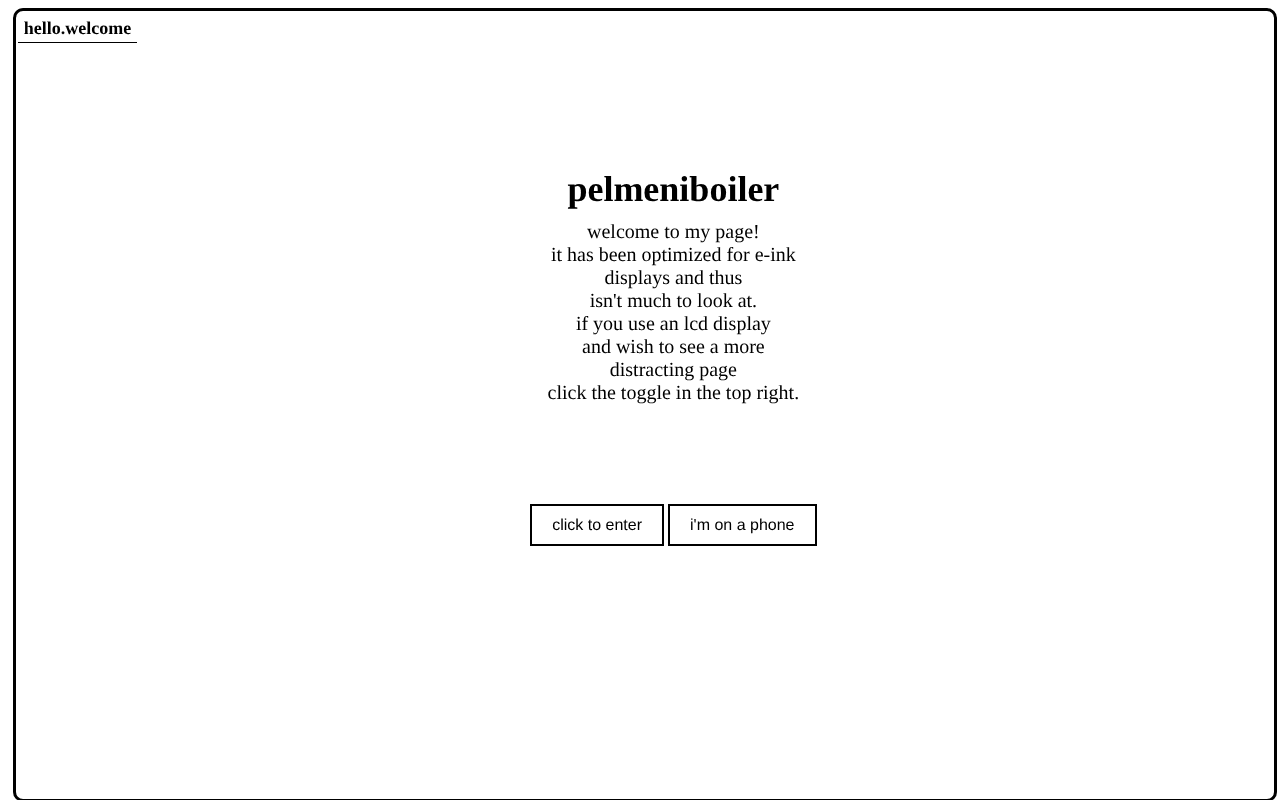
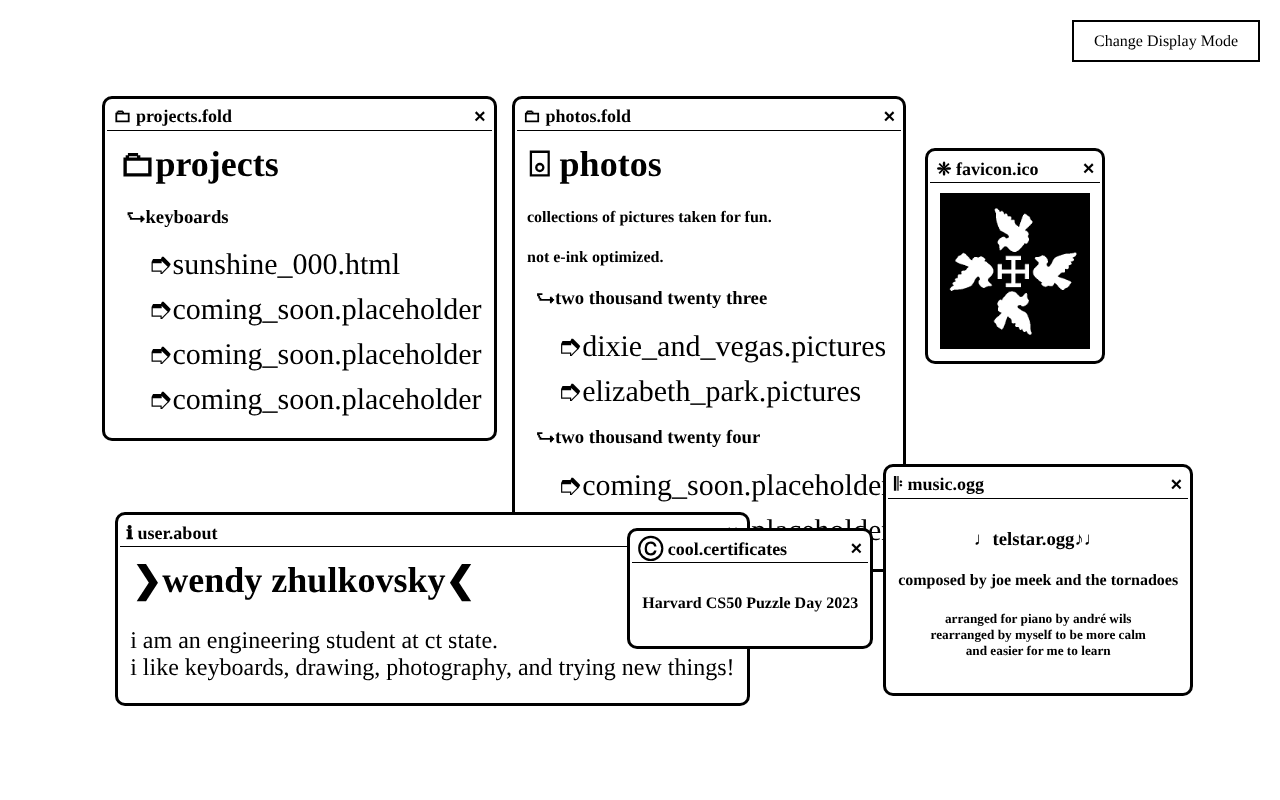
History post: Hebrew dates, units, the 2024 version past its gate; no grey for disabled controls
- History post: dates are Hebrew-calendar; chart figures carry KB; the
  one-line intro is replaced by the date range; the 2024 version is
  shown after 'click to enter', with its windows.
- Disabled controls no longer turn grey or fade: the outline goes dashed
  and the label is struck through (the colour themes in e-ink mode).

Claude-Session: https://claude.ai/code/session_01NDXeeJN8X7cF8LKYzB54qM

diff --git a/blog/this-blog-used-to-look-different.html b/blog/this-blog-used-to-look-different.html
@@ -53,40 +53,40 @@
             <h1 id="title" data-key="history_title"></h1>
             <p data-key="history_p1"></p>
             <figure>
-<svg class="tl-fig" viewBox="0 0 640 240" role="img" aria-labelledby="tlc-t tlc-d"><title id="tlc-t">First-visit download of each version, in kilobytes, drawn to one scale</title><desc id="tlc-d">Version 1, 2021-12-28: 1951 KB (page 1, images 1949). Version 2, 2024-02-03: 17 KB (page 10, scripts 3, images 4). Version 3, 2025-05-23: 17 KB (page 8, styles 6, scripts 4). Version 4, 2025-07-23: 7572 KB (page 7, styles 21, scripts 54, fonts 7153, images 11, data 326). Version 5, 2025-11-20: 7701 KB (page 7, styles 22, scripts 54, fonts 7153, images 11, data 454). Version 6, 2026-07-11: 7893 KB (page 14, styles 122, scripts 127, fonts 7153, images 13, data 463). Version 7, 2026-11-16: 615 KB (page 63, styles 146, scripts 145, fonts 74, images 182, data 6).</desc><defs>
+<svg class="tl-fig" viewBox="0 0 640 258" role="img" aria-labelledby="tlc-t tlc-d"><title id="tlc-t">First-visit download of each version, in kilobytes, drawn to one scale</title><desc id="tlc-d">Version 1, 24 Tevet 5782: 1951 KB (page 1, images 1949). Version 2, 24 Shevat 5784: 17 KB (page 10, scripts 3, images 4). Version 3, 25 Iyar 5785: 17 KB (page 8, styles 6, scripts 4). Version 4, 27 Tamuz 5785: 7572 KB (page 7, styles 21, scripts 54, fonts 7153, images 11, data 326). Version 5, 29 Heshvan 5786: 7701 KB (page 7, styles 22, scripts 54, fonts 7153, images 11, data 454). Version 6, 26 Tamuz 5786: 7893 KB (page 14, styles 122, scripts 127, fonts 7153, images 13, data 463). Version 7, 6 Kislev 5787: 615 KB (page 63, styles 146, scripts 145, fonts 74, images 182, data 6).</desc><defs>
 <pattern id="tl-dots" width="7" height="7" patternUnits="userSpaceOnUse"><rect class="tl-paper" width="7" height="7"/><circle class="tl-ink" cx="3.5" cy="3.5" r="1.4"/></pattern>
 <pattern id="tl-diag" width="7" height="7" patternUnits="userSpaceOnUse" patternTransform="rotate(45)"><rect class="tl-paper" width="7" height="7"/><rect class="tl-ink" width="2.2" height="7"/></pattern>
 <pattern id="tl-horiz" width="7" height="7" patternUnits="userSpaceOnUse"><rect class="tl-paper" width="7" height="7"/><rect class="tl-ink" width="7" height="2.2"/></pattern>
 <pattern id="tl-cross" width="8" height="8" patternUnits="userSpaceOnUse"><rect class="tl-paper" width="8" height="8"/><rect class="tl-ink" width="8" height="1.6"/><rect class="tl-ink" width="1.6" height="8"/></pattern>
-</defs><path class="tl-paper tl-st" d="M 45.7 84 L 45.7 63.1 A 20.9 20.9 0 0 1 45.8 63.1 Z"/><path class="tl-st" fill="url(#tl-diag)" d="M 45.7 84 L 45.8 63.1 A 20.9 20.9 0 1 1 45.7 63.1 Z"/><circle class="tl-rim" cx="45.7" cy="84" r="20.9"/><text class="tl-t" x="45.7" y="172" text-anchor="middle">2021-12</text><text class="tl-t" x="45.7" y="190" text-anchor="middle">1,951</text><text class="tl-n" x="45.7" y="16" text-anchor="middle">1</text><path class="tl-paper tl-st" d="M 137.1 84 L 137.1 81.5 A 2.5 2.5 0 1 1 135.8 86.1 Z"/><path class="tl-st" fill="url(#tl-horiz)" d="M 137.1 84 L 135.8 86.1 A 2.5 2.5 0 0 1 134.6 83.8 Z"/><path class="tl-st" fill="url(#tl-diag)" d="M 137.1 84 L 134.6 83.8 A 2.5 2.5 0 0 1 137.1 81.5 Z"/><circle class="tl-rim" cx="137.1" cy="84" r="2.5"/><text class="tl-t" x="137.1" y="172" text-anchor="middle">2024-02</text><text class="tl-t" x="137.1" y="190" text-anchor="middle">17</text><text class="tl-n" x="137.1" y="16" text-anchor="middle">2</text><path class="tl-paper tl-st" d="M 228.6 84 L 228.6 81.5 A 2.5 2.5 0 0 1 229.5 86.3 Z"/><path class="tl-st" fill="url(#tl-cross)" d="M 228.6 84 L 229.5 86.3 A 2.5 2.5 0 0 1 226.1 83.6 Z"/><path class="tl-st" fill="url(#tl-horiz)" d="M 228.6 84 L 226.1 83.6 A 2.5 2.5 0 0 1 228.6 81.5 Z"/><circle class="tl-rim" cx="228.6" cy="84" r="2.5"/><text class="tl-t" x="228.6" y="172" text-anchor="middle">2025-05</text><text class="tl-t" x="228.6" y="190" text-anchor="middle">17</text><text class="tl-n" x="228.6" y="16" text-anchor="middle">3</text><path class="tl-paper tl-st" d="M 320 84 L 320 42.9 A 41.1 41.1 0 0 1 320.2 42.9 Z"/><path class="tl-st" fill="url(#tl-cross)" d="M 320 84 L 320.2 42.9 A 41.1 41.1 0 0 1 321 42.9 Z"/><path class="tl-st" fill="url(#tl-horiz)" d="M 320 84 L 321 42.9 A 41.1 41.1 0 0 1 322.8 43 Z"/><path class="tl-ink" d="M 320 84 L 322.8 43 A 41.1 41.1 0 1 1 308.6 44.5 Z"/><path class="tl-st" fill="url(#tl-diag)" d="M 320 84 L 308.6 44.5 A 41.1 41.1 0 0 1 309 44.4 Z"/><path class="tl-st" fill="url(#tl-dots)" d="M 320 84 L 309 44.4 A 41.1 41.1 0 0 1 320 42.9 Z"/><circle class="tl-rim" cx="320" cy="84" r="41.1"/><text class="tl-t" x="320" y="172" text-anchor="middle">2025-07</text><text class="tl-t" x="320" y="190" text-anchor="middle">7,572</text><text class="tl-n" x="320" y="16" text-anchor="middle">4</text><path class="tl-paper tl-st" d="M 411.4 84 L 411.4 42.5 A 41.5 41.5 0 0 1 411.6 42.5 Z"/><path class="tl-st" fill="url(#tl-cross)" d="M 411.4 84 L 411.6 42.5 A 41.5 41.5 0 0 1 412.4 42.5 Z"/><path class="tl-st" fill="url(#tl-horiz)" d="M 411.4 84 L 412.4 42.5 A 41.5 41.5 0 0 1 414.2 42.6 Z"/><path class="tl-ink" d="M 411.4 84 L 414.2 42.6 A 41.5 41.5 0 1 1 396 45.5 Z"/><path class="tl-st" fill="url(#tl-diag)" d="M 411.4 84 L 396 45.5 A 41.5 41.5 0 0 1 396.4 45.3 Z"/><path class="tl-st" fill="url(#tl-dots)" d="M 411.4 84 L 396.4 45.3 A 41.5 41.5 0 0 1 411.4 42.5 Z"/><circle class="tl-rim" cx="411.4" cy="84" r="41.5"/><text class="tl-t" x="411.4" y="172" text-anchor="middle">2025-11</text><text class="tl-t" x="411.4" y="190" text-anchor="middle">7,701</text><text class="tl-n" x="411.4" y="16" text-anchor="middle">5</text><path class="tl-paper tl-st" d="M 502.9 84 L 502.9 42 A 42 42 0 0 1 503.4 42 Z"/><path class="tl-st" fill="url(#tl-cross)" d="M 502.9 84 L 503.4 42 A 42 42 0 0 1 507.4 42.2 Z"/><path class="tl-st" fill="url(#tl-horiz)" d="M 502.9 84 L 507.4 42.2 A 42 42 0 0 1 511.6 42.9 Z"/><path class="tl-ink" d="M 502.9 84 L 511.6 42.9 A 42 42 0 1 1 487.4 45 Z"/><path class="tl-st" fill="url(#tl-diag)" d="M 502.9 84 L 487.4 45 A 42 42 0 0 1 487.8 44.8 Z"/><path class="tl-st" fill="url(#tl-dots)" d="M 502.9 84 L 487.8 44.8 A 42 42 0 0 1 502.9 42 Z"/><circle class="tl-rim" cx="502.9" cy="84" r="42"/><text class="tl-t" x="502.9" y="172" text-anchor="middle">2026-07</text><text class="tl-t" x="502.9" y="190" text-anchor="middle">7,893</text><text class="tl-n" x="502.9" y="16" text-anchor="middle">6</text><path class="tl-paper tl-st" d="M 594.3 84 L 594.3 72.3 A 11.7 11.7 0 0 1 601.3 74.6 Z"/><path class="tl-st" fill="url(#tl-cross)" d="M 594.3 84 L 601.3 74.6 A 11.7 11.7 0 0 1 604.2 90.2 Z"/><path class="tl-st" fill="url(#tl-horiz)" d="M 594.3 84 L 604.2 90.2 A 11.7 11.7 0 0 1 589 94.5 Z"/><path class="tl-ink" d="M 594.3 84 L 589 94.5 A 11.7 11.7 0 0 1 583.3 88 Z"/><path class="tl-st" fill="url(#tl-diag)" d="M 594.3 84 L 583.3 88 A 11.7 11.7 0 0 1 593.6 72.3 Z"/><path class="tl-st" fill="url(#tl-dots)" d="M 594.3 84 L 593.6 72.3 A 11.7 11.7 0 0 1 594.3 72.3 Z"/><circle class="tl-rim" cx="594.3" cy="84" r="11.7"/><text class="tl-t" x="594.3" y="172" text-anchor="middle">2026-11</text><text class="tl-t" x="594.3" y="190" text-anchor="middle">615</text><text class="tl-n" x="594.3" y="16" text-anchor="middle">7</text><rect class="tl-paper tl-st" x="40" y="212" width="16" height="16"/><rect class="tl-rim" x="40" y="212" width="16" height="16"/><text class="tl-t" x="62" y="225">page</text><rect class="tl-st" fill="url(#tl-cross)" x="140" y="212" width="16" height="16"/><rect class="tl-rim" x="140" y="212" width="16" height="16"/><text class="tl-t" x="162" y="225">styles</text><rect class="tl-st" fill="url(#tl-horiz)" x="240" y="212" width="16" height="16"/><rect class="tl-rim" x="240" y="212" width="16" height="16"/><text class="tl-t" x="262" y="225">scripts</text><rect class="tl-ink" x="340" y="212" width="16" height="16"/><rect class="tl-rim" x="340" y="212" width="16" height="16"/><text class="tl-t" x="362" y="225">fonts</text><rect class="tl-st" fill="url(#tl-diag)" x="440" y="212" width="16" height="16"/><rect class="tl-rim" x="440" y="212" width="16" height="16"/><text class="tl-t" x="462" y="225">images</text><rect class="tl-st" fill="url(#tl-dots)" x="540" y="212" width="16" height="16"/><rect class="tl-rim" x="540" y="212" width="16" height="16"/><text class="tl-t" x="562" y="225">data</text></svg>
+</defs><path class="tl-paper tl-st" d="M 45.7 84 L 45.7 63.1 A 20.9 20.9 0 0 1 45.8 63.1 Z"/><path class="tl-st" fill="url(#tl-diag)" d="M 45.7 84 L 45.8 63.1 A 20.9 20.9 0 1 1 45.7 63.1 Z"/><circle class="tl-rim" cx="45.7" cy="84" r="20.9"/><text class="tl-t" x="45.7" y="172" text-anchor="middle">Tevet</text><text class="tl-t" x="45.7" y="188" text-anchor="middle">5782</text><text class="tl-t" x="45.7" y="208" text-anchor="middle">1,951 KB</text><text class="tl-n" x="45.7" y="16" text-anchor="middle">1</text><path class="tl-paper tl-st" d="M 137.1 84 L 137.1 81.5 A 2.5 2.5 0 1 1 135.8 86.1 Z"/><path class="tl-st" fill="url(#tl-horiz)" d="M 137.1 84 L 135.8 86.1 A 2.5 2.5 0 0 1 134.6 83.8 Z"/><path class="tl-st" fill="url(#tl-diag)" d="M 137.1 84 L 134.6 83.8 A 2.5 2.5 0 0 1 137.1 81.5 Z"/><circle class="tl-rim" cx="137.1" cy="84" r="2.5"/><text class="tl-t" x="137.1" y="172" text-anchor="middle">Shevat</text><text class="tl-t" x="137.1" y="188" text-anchor="middle">5784</text><text class="tl-t" x="137.1" y="208" text-anchor="middle">17 KB</text><text class="tl-n" x="137.1" y="16" text-anchor="middle">2</text><path class="tl-paper tl-st" d="M 228.6 84 L 228.6 81.5 A 2.5 2.5 0 0 1 229.5 86.3 Z"/><path class="tl-st" fill="url(#tl-cross)" d="M 228.6 84 L 229.5 86.3 A 2.5 2.5 0 0 1 226.1 83.6 Z"/><path class="tl-st" fill="url(#tl-horiz)" d="M 228.6 84 L 226.1 83.6 A 2.5 2.5 0 0 1 228.6 81.5 Z"/><circle class="tl-rim" cx="228.6" cy="84" r="2.5"/><text class="tl-t" x="228.6" y="172" text-anchor="middle">Iyar</text><text class="tl-t" x="228.6" y="188" text-anchor="middle">5785</text><text class="tl-t" x="228.6" y="208" text-anchor="middle">17 KB</text><text class="tl-n" x="228.6" y="16" text-anchor="middle">3</text><path class="tl-paper tl-st" d="M 320 84 L 320 42.9 A 41.1 41.1 0 0 1 320.2 42.9 Z"/><path class="tl-st" fill="url(#tl-cross)" d="M 320 84 L 320.2 42.9 A 41.1 41.1 0 0 1 321 42.9 Z"/><path class="tl-st" fill="url(#tl-horiz)" d="M 320 84 L 321 42.9 A 41.1 41.1 0 0 1 322.8 43 Z"/><path class="tl-ink" d="M 320 84 L 322.8 43 A 41.1 41.1 0 1 1 308.6 44.5 Z"/><path class="tl-st" fill="url(#tl-diag)" d="M 320 84 L 308.6 44.5 A 41.1 41.1 0 0 1 309 44.4 Z"/><path class="tl-st" fill="url(#tl-dots)" d="M 320 84 L 309 44.4 A 41.1 41.1 0 0 1 320 42.9 Z"/><circle class="tl-rim" cx="320" cy="84" r="41.1"/><text class="tl-t" x="320" y="172" text-anchor="middle">Tamuz</text><text class="tl-t" x="320" y="188" text-anchor="middle">5785</text><text class="tl-t" x="320" y="208" text-anchor="middle">7,572 KB</text><text class="tl-n" x="320" y="16" text-anchor="middle">4</text><path class="tl-paper tl-st" d="M 411.4 84 L 411.4 42.5 A 41.5 41.5 0 0 1 411.6 42.5 Z"/><path class="tl-st" fill="url(#tl-cross)" d="M 411.4 84 L 411.6 42.5 A 41.5 41.5 0 0 1 412.4 42.5 Z"/><path class="tl-st" fill="url(#tl-horiz)" d="M 411.4 84 L 412.4 42.5 A 41.5 41.5 0 0 1 414.2 42.6 Z"/><path class="tl-ink" d="M 411.4 84 L 414.2 42.6 A 41.5 41.5 0 1 1 396 45.5 Z"/><path class="tl-st" fill="url(#tl-diag)" d="M 411.4 84 L 396 45.5 A 41.5 41.5 0 0 1 396.4 45.3 Z"/><path class="tl-st" fill="url(#tl-dots)" d="M 411.4 84 L 396.4 45.3 A 41.5 41.5 0 0 1 411.4 42.5 Z"/><circle class="tl-rim" cx="411.4" cy="84" r="41.5"/><text class="tl-t" x="411.4" y="172" text-anchor="middle">Heshvan</text><text class="tl-t" x="411.4" y="188" text-anchor="middle">5786</text><text class="tl-t" x="411.4" y="208" text-anchor="middle">7,701 KB</text><text class="tl-n" x="411.4" y="16" text-anchor="middle">5</text><path class="tl-paper tl-st" d="M 502.9 84 L 502.9 42 A 42 42 0 0 1 503.4 42 Z"/><path class="tl-st" fill="url(#tl-cross)" d="M 502.9 84 L 503.4 42 A 42 42 0 0 1 507.4 42.2 Z"/><path class="tl-st" fill="url(#tl-horiz)" d="M 502.9 84 L 507.4 42.2 A 42 42 0 0 1 511.6 42.9 Z"/><path class="tl-ink" d="M 502.9 84 L 511.6 42.9 A 42 42 0 1 1 487.4 45 Z"/><path class="tl-st" fill="url(#tl-diag)" d="M 502.9 84 L 487.4 45 A 42 42 0 0 1 487.8 44.8 Z"/><path class="tl-st" fill="url(#tl-dots)" d="M 502.9 84 L 487.8 44.8 A 42 42 0 0 1 502.9 42 Z"/><circle class="tl-rim" cx="502.9" cy="84" r="42"/><text class="tl-t" x="502.9" y="172" text-anchor="middle">Tamuz</text><text class="tl-t" x="502.9" y="188" text-anchor="middle">5786</text><text class="tl-t" x="502.9" y="208" text-anchor="middle">7,893 KB</text><text class="tl-n" x="502.9" y="16" text-anchor="middle">6</text><path class="tl-paper tl-st" d="M 594.3 84 L 594.3 72.3 A 11.7 11.7 0 0 1 601.3 74.6 Z"/><path class="tl-st" fill="url(#tl-cross)" d="M 594.3 84 L 601.3 74.6 A 11.7 11.7 0 0 1 604.2 90.2 Z"/><path class="tl-st" fill="url(#tl-horiz)" d="M 594.3 84 L 604.2 90.2 A 11.7 11.7 0 0 1 589 94.5 Z"/><path class="tl-ink" d="M 594.3 84 L 589 94.5 A 11.7 11.7 0 0 1 583.3 88 Z"/><path class="tl-st" fill="url(#tl-diag)" d="M 594.3 84 L 583.3 88 A 11.7 11.7 0 0 1 593.6 72.3 Z"/><path class="tl-st" fill="url(#tl-dots)" d="M 594.3 84 L 593.6 72.3 A 11.7 11.7 0 0 1 594.3 72.3 Z"/><circle class="tl-rim" cx="594.3" cy="84" r="11.7"/><text class="tl-t" x="594.3" y="172" text-anchor="middle">Kislev</text><text class="tl-t" x="594.3" y="188" text-anchor="middle">5787</text><text class="tl-t" x="594.3" y="208" text-anchor="middle">615 KB</text><text class="tl-n" x="594.3" y="16" text-anchor="middle">7</text><rect class="tl-paper tl-st" x="40" y="230" width="16" height="16"/><rect class="tl-rim" x="40" y="230" width="16" height="16"/><text class="tl-t" x="62" y="243">page</text><rect class="tl-st" fill="url(#tl-cross)" x="140" y="230" width="16" height="16"/><rect class="tl-rim" x="140" y="230" width="16" height="16"/><text class="tl-t" x="162" y="243">styles</text><rect class="tl-st" fill="url(#tl-horiz)" x="240" y="230" width="16" height="16"/><rect class="tl-rim" x="240" y="230" width="16" height="16"/><text class="tl-t" x="262" y="243">scripts</text><rect class="tl-ink" x="340" y="230" width="16" height="16"/><rect class="tl-rim" x="340" y="230" width="16" height="16"/><text class="tl-t" x="362" y="243">fonts</text><rect class="tl-st" fill="url(#tl-diag)" x="440" y="230" width="16" height="16"/><rect class="tl-rim" x="440" y="230" width="16" height="16"/><text class="tl-t" x="462" y="243">images</text><rect class="tl-st" fill="url(#tl-dots)" x="540" y="230" width="16" height="16"/><rect class="tl-rim" x="540" y="230" width="16" height="16"/><text class="tl-t" x="562" y="243">data</text></svg>
             </figure>
             <h2 id="v1" data-key="history_h2_v1"></h2>
-            <p class="tl-meta"><time datetime="2021-12-28">2021-12-28</time> → <time datetime="2024-02-03">2024-02-03</time> · 767 d · <code>1a77ffb</code> · 47 commits · 7 files</p>
-            <img src="/photos/timeline/01-2021-12-28.png" alt="The home page on 2021-12-28." data-alt-key="history_alt1" class="article-image">
+            <p class="tl-meta"><time datetime="2021-12-28">24 Tevet 5782</time> → <time datetime="2024-02-03">24 Shevat 5784</time> · 767 d · <code>1a77ffb</code> · 47 commits · 7 files</p>
+            <img src="/photos/timeline/01-2021-12-28.png" alt="The home page on 24 Tevet 5782." data-alt-key="history_alt1" class="article-image">
             <p class="tl-meta">1,951 KB · 2 requests — images 1,949 · page 1</p>
             <h2 id="v2" data-key="history_h2_v2"></h2>
-            <p class="tl-meta"><time datetime="2024-02-03">2024-02-03</time> → <time datetime="2025-05-23">2025-05-23</time> · 475 d · <code>c82dd40</code> · 130 commits · 94 files</p>
-            <img src="/photos/timeline/02-2024-02-03.png" alt="The home page on 2024-02-03." data-alt-key="history_alt2" class="article-image">
+            <p class="tl-meta"><time datetime="2024-02-03">24 Shevat 5784</time> → <time datetime="2025-05-23">25 Iyar 5785</time> · 475 d · <code>c82dd40</code> · 130 commits · 94 files</p>
+            <img src="/photos/timeline/02-2024-02-03.png" alt="The home page on 24 Shevat 5784." data-alt-key="history_alt2" class="article-image">
             <p class="tl-meta">17 KB · 3 requests — page 10 · images 4 · scripts 3</p>
             <h2 id="v3" data-key="history_h2_v3"></h2>
-            <p class="tl-meta"><time datetime="2025-05-23">2025-05-23</time> → <time datetime="2025-07-23">2025-07-23</time> · 61 d · <code>190b263</code> · 140 commits · 95 files</p>
-            <img src="/photos/timeline/03-2025-05-23.png" alt="The home page on 2025-05-23." data-alt-key="history_alt3" class="article-image">
+            <p class="tl-meta"><time datetime="2025-05-23">25 Iyar 5785</time> → <time datetime="2025-07-23">27 Tamuz 5785</time> · 61 d · <code>190b263</code> · 140 commits · 95 files</p>
+            <img src="/photos/timeline/03-2025-05-23.png" alt="The home page on 25 Iyar 5785." data-alt-key="history_alt3" class="article-image">
             <p class="tl-meta">17 KB · 4 requests — page 8 · styles 6 · scripts 4</p>
             <h2 id="v4" data-key="history_h2_v4"></h2>
-            <p class="tl-meta"><time datetime="2025-07-23">2025-07-23</time> → <time datetime="2025-11-20">2025-11-20</time> · 120 d · <code>0cce3ef</code> · 229 commits · 132 files</p>
-            <img src="/photos/timeline/04-2025-07-23.png" alt="The home page on 2025-07-23." data-alt-key="history_alt4" class="article-image">
+            <p class="tl-meta"><time datetime="2025-07-23">27 Tamuz 5785</time> → <time datetime="2025-11-20">29 Heshvan 5786</time> · 120 d · <code>0cce3ef</code> · 229 commits · 132 files</p>
+            <img src="/photos/timeline/04-2025-07-23.png" alt="The home page on 27 Tamuz 5785." data-alt-key="history_alt4" class="article-image">
             <p class="tl-meta">7,572 KB · 30 requests — fonts 7,153 · data 326 · scripts 54 · styles 21 · images 11 · page 7</p>
             <h2 id="v5" data-key="history_h2_v5"></h2>
-            <p class="tl-meta"><time datetime="2025-11-20">2025-11-20</time> → <time datetime="2026-07-11">2026-07-11</time> · 233 d · <code>02559ad</code> · 238 commits · 134 files</p>
-            <img src="/photos/timeline/05-2025-11-20.png" alt="The home page on 2025-11-20." data-alt-key="history_alt5" class="article-image">
+            <p class="tl-meta"><time datetime="2025-11-20">29 Heshvan 5786</time> → <time datetime="2026-07-11">26 Tamuz 5786</time> · 233 d · <code>02559ad</code> · 238 commits · 134 files</p>
+            <img src="/photos/timeline/05-2025-11-20.png" alt="The home page on 29 Heshvan 5786." data-alt-key="history_alt5" class="article-image">
             <p class="tl-meta">7,701 KB · 31 requests — fonts 7,153 · data 454 · scripts 54 · styles 22 · images 11 · page 7</p>
             <h2 id="v6" data-key="history_h2_v6"></h2>
-            <p class="tl-meta"><time datetime="2026-07-11">2026-07-11</time> → <time datetime="2026-11-16">2026-11-16</time> · 128 d · <code>97c4142</code> · 365 commits · 195 files</p>
-            <img src="/photos/timeline/06-2026-07-11.png" alt="The home page on 2026-07-11." data-alt-key="history_alt6" class="article-image">
+            <p class="tl-meta"><time datetime="2026-07-11">26 Tamuz 5786</time> → <time datetime="2026-11-16">6 Kislev 5787</time> · 128 d · <code>97c4142</code> · 365 commits · 195 files</p>
+            <img src="/photos/timeline/06-2026-07-11.png" alt="The home page on 26 Tamuz 5786." data-alt-key="history_alt6" class="article-image">
             <p class="tl-meta">7,893 KB · 34 requests — fonts 7,153 · data 463 · scripts 127 · styles 122 · page 14 · images 13</p>
             <h2 id="v7" data-key="history_h2_v7"></h2>
-            <p class="tl-meta"><time datetime="2026-11-16">2026-11-16</time> → … · <code>0bbea2a</code> · 418 commits · 238 files</p>
-            <img src="/photos/timeline/07-2026-11-16.png" alt="The home page on 2026-11-16." data-alt-key="history_alt7" class="article-image">
+            <p class="tl-meta"><time datetime="2026-11-16">6 Kislev 5787</time> → … · <code>0bbea2a</code> · 418 commits · 238 files</p>
+            <img src="/photos/timeline/07-2026-11-16.png" alt="The home page on 6 Kislev 5787." data-alt-key="history_alt7" class="article-image">
             <p class="tl-meta">615 KB · 23 requests — images 182 · styles 146 · scripts 145 · fonts 74 · page 63 · data 6</p>
         </article>
     </main>

diff --git a/styles/pelmeni2025.css b/styles/pelmeni2025.css
@@ -567,7 +567,7 @@ hr { border: none; height: 1px; background-color: var(--text-color); color: var(
 .theme-folder > .radio-label { margin-inline-start: 1.75em; }
 
 /* Custom form controls outlined in the theme's TEXT colour — never browser grey.
-   Grey is reserved exclusively for the :disabled state below. The checkbox is a
+   No grey anywhere, the :disabled state included (see below). The checkbox is a
    square with pointy corners; the radio stays round. */
 input[type="checkbox"], input[type="radio"] {
     appearance: none; -webkit-appearance: none; margin: 0 8px 0 0;
@@ -592,12 +592,13 @@ input[type="radio"]:checked::before { transform: scale(1); }
 input[type="checkbox"]:focus-visible, input[type="radio"]:focus-visible {
     outline: 2px solid var(--text-color); outline-offset: 2px;
 }
-/* The one place grey belongs: a disabled control. */
+/* A disabled control is not greyed out — grey dithers into noise on e-ink and
+   is not one of the theme's two colours. Its outline goes dashed and its label
+   is struck through. */
 input[type="checkbox"]:disabled, input[type="radio"]:disabled {
-    border-color: gray; cursor: var(--cur-default);
+    border-style: dashed; cursor: var(--cur-default);
 }
-input[type="checkbox"]:disabled:checked { background: gray; }
-input[type="radio"]:disabled:checked::before { background: gray; }
+label:has(> input:disabled), input:disabled + label { text-decoration: line-through; cursor: var(--cur-default); }
 /* Range slider keeps the native track/thumb, tinted to the theme. */
 input[type="range"] { accent-color: var(--text-color); }
 

diff --git a/scripts/settings.js b/scripts/settings.js
@@ -191,7 +191,8 @@ function setupSettings() {
     }
 
     /**
-     * Enable/disable (and dim) the colour theme presets. Colour themes are only
+     * Enable/disable the colour theme presets (the stylesheet strikes a
+     * disabled one through). Colour themes are only
      * valid in LCD mode, so they're disabled while e-ink mode is active. Called
      * both when the mode is toggled and on initial load (otherwise a page that
      * loads already in e-ink mode would show the colour presets selectable until
@@ -202,7 +203,6 @@ function setupSettings() {
         const themeSettingGroup = getElement('theme-setting-group');
         if (!themeSettingGroup) return;
         themeSettingGroup.querySelectorAll('.color-theme').forEach(label => {
-            label.style.opacity = isEink ? '0.5' : '1';
             const radio = label.querySelector('input');
             if (radio) radio.disabled = isEink;
         });
